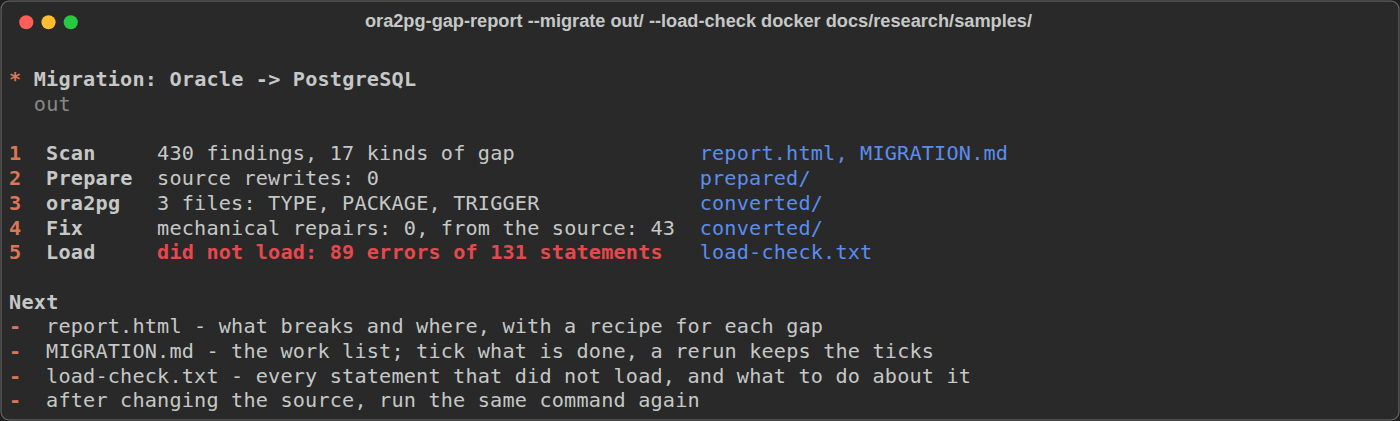
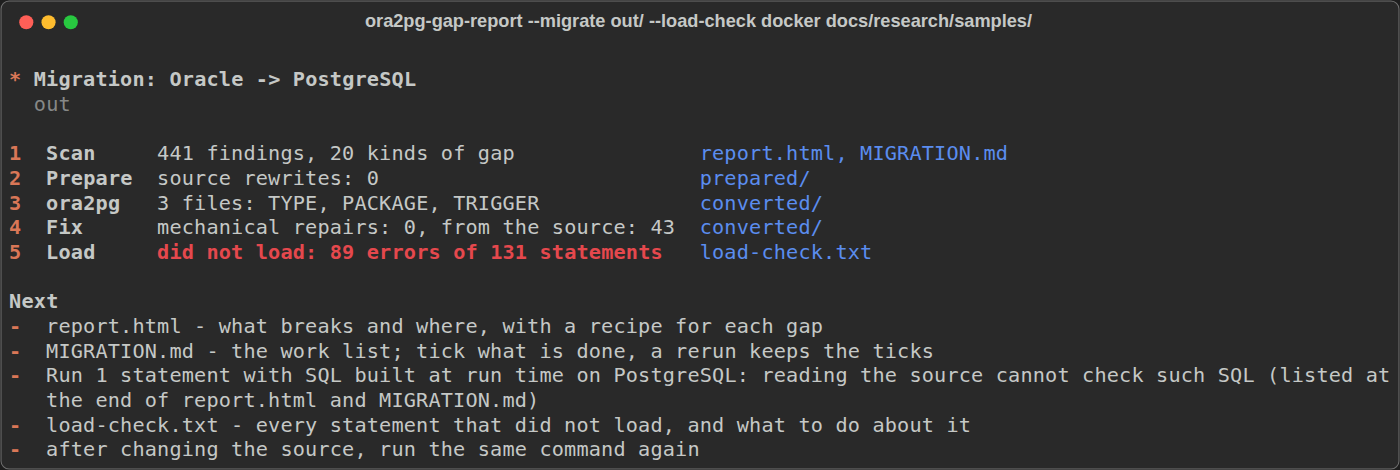
Release 0.17.0

diff --git a/ora2pg_gap_report/i18n.py b/ora2pg_gap_report/i18n.py
@@ -1037,8 +1037,8 @@ _UI: dict[str, dict[str, str]] = {
         "en": "\"partly\" - the string literals in it were scanned, what the variables add was not.",
     },
     "migrate_next_unchecked": {
-        "ru": "Прогнать на PostgreSQL {statements} с SQL, собранным во время выполнения: их не проверить по исходнику (список - в конце report.html и MIGRATION.md)",
-        "en": "Run {statements} with SQL built at run time on PostgreSQL: reading the source cannot check them (listed at the end of report.html and MIGRATION.md)",
+        "ru": "Прогнать на PostgreSQL {statements} с SQL, собранным во время выполнения: такой SQL по исходнику не проверить (список - в конце report.html и MIGRATION.md)",
+        "en": "Run {statements} with SQL built at run time on PostgreSQL: reading the source cannot check such SQL (listed at the end of report.html and MIGRATION.md)",
     },
     "checklist_unchecked_heading": {
         "ru": "Не проверено инструментом: SQL, собранный во время выполнения",

diff --git a/docs/ci-integration.ru.md b/docs/ci-integration.ru.md
@@ -73,7 +73,7 @@ jobs:
     steps:
       - uses: actions/checkout@v4
       - id: gaps
-        uses: Lunch418/ora2pg-gap-report@v0.16.0   # или @main - самая свежая версия
+        uses: Lunch418/ora2pg-gap-report@v0.17.0   # или @main - самая свежая версия
         with:
           paths: schema/
           fail-on: high              # "" - только отчёт

diff --git a/ROADMAP.ru.md b/ROADMAP.ru.md
@@ -9,7 +9,7 @@
 подтверждённая причина (реальный пользователь, реальный issue, реальная
 боль). См. правило в конце документа.
 
-Статус актуален на v0.16.0 (2026-10-10).
+Статус актуален на v0.17.0 (2026-10-10).
 
 ## Как читать этот список
 

diff --git a/docs/ci-integration.md b/docs/ci-integration.md
@@ -74,7 +74,7 @@ jobs:
     steps:
       - uses: actions/checkout@v4
       - id: gaps
-        uses: Lunch418/ora2pg-gap-report@v0.16.0   # or @main for the latest
+        uses: Lunch418/ora2pg-gap-report@v0.17.0   # or @main for the latest
         with:
           paths: schema/
           fail-on: high              # "" to only report

diff --git a/README.ru.md b/README.ru.md
@@ -694,7 +694,7 @@ echo $?   # 1, если нашлась хотя бы одна находка hig
 загрузку SARIF в code scanning и порог:
 
 ```yaml
-- uses: Lunch418/ora2pg-gap-report@v0.16.0
+- uses: Lunch418/ora2pg-gap-report@v0.17.0
   with:
     paths: schema/
     fail-on: high

diff --git a/README.md b/README.md
@@ -696,7 +696,7 @@ On GitHub, the repository is a ready-made Action that does the scan, the
 SARIF upload to code scanning and the gate in one step:
 
 ```yaml
-- uses: Lunch418/ora2pg-gap-report@v0.16.0
+- uses: Lunch418/ora2pg-gap-report@v0.17.0
   with:
     paths: schema/
     fail-on: high

diff --git a/ROADMAP.md b/ROADMAP.md
@@ -9,7 +9,7 @@ backlog, and items only get pulled out of it once there's a confirmed
 reason (a real user, a real issue, real pain). See the rule at the end of
 the document.
 
-Status current as of v0.16.0 (2026-10-10).
+Status current as of v0.17.0 (2026-10-10).
 
 ## How to read this list
 

diff --git a/CHANGELOG.ru.md b/CHANGELOG.ru.md
@@ -9,6 +9,8 @@ patch — исправления в существующих.
 
 ## [Не выпущено]
 
+## [0.17.0] - 2026-10-10
+
 ### Добавлено
 
 - **GAP-130..133: числа и `SUBSTR`, которые загружаются, а потом считают

diff --git a/CHANGELOG.md b/CHANGELOG.md
@@ -9,6 +9,8 @@ patch for fixes to existing ones.
 
 ## [Unreleased]
 
+## [0.17.0] - 2026-10-10
+
 ### Added
 
 - **GAP-130..133: numbers and `SUBSTR` that load and then compute
